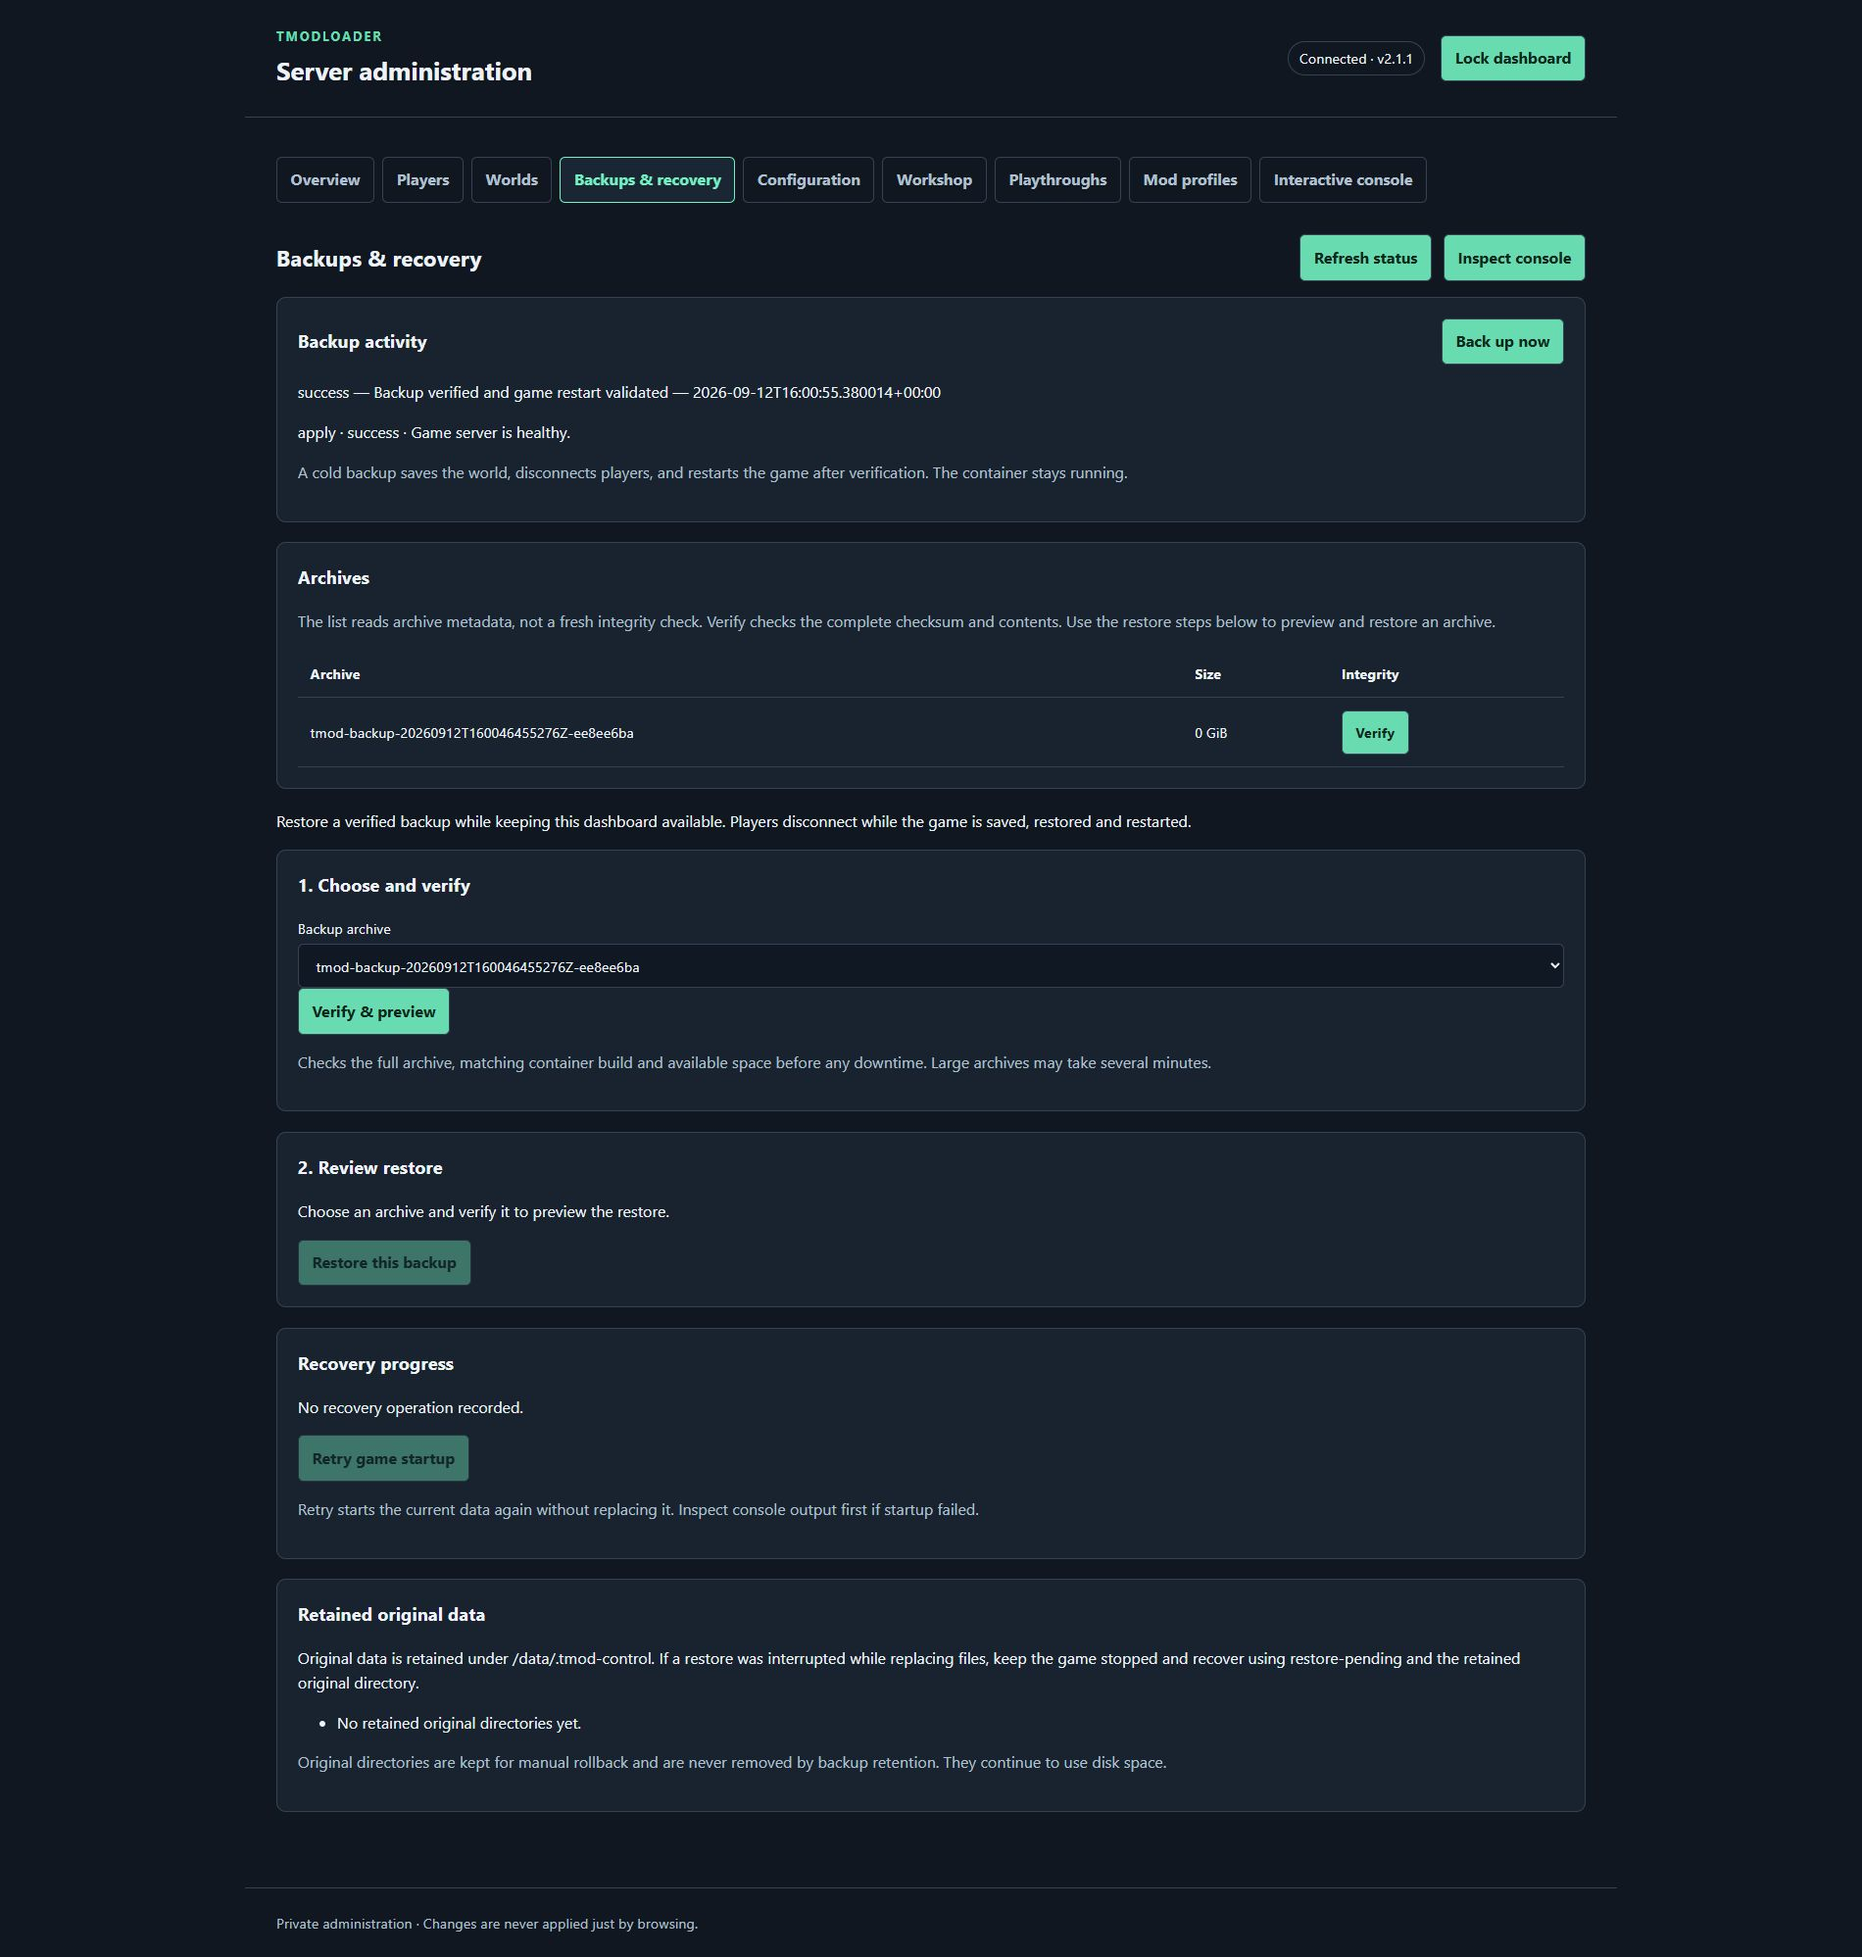
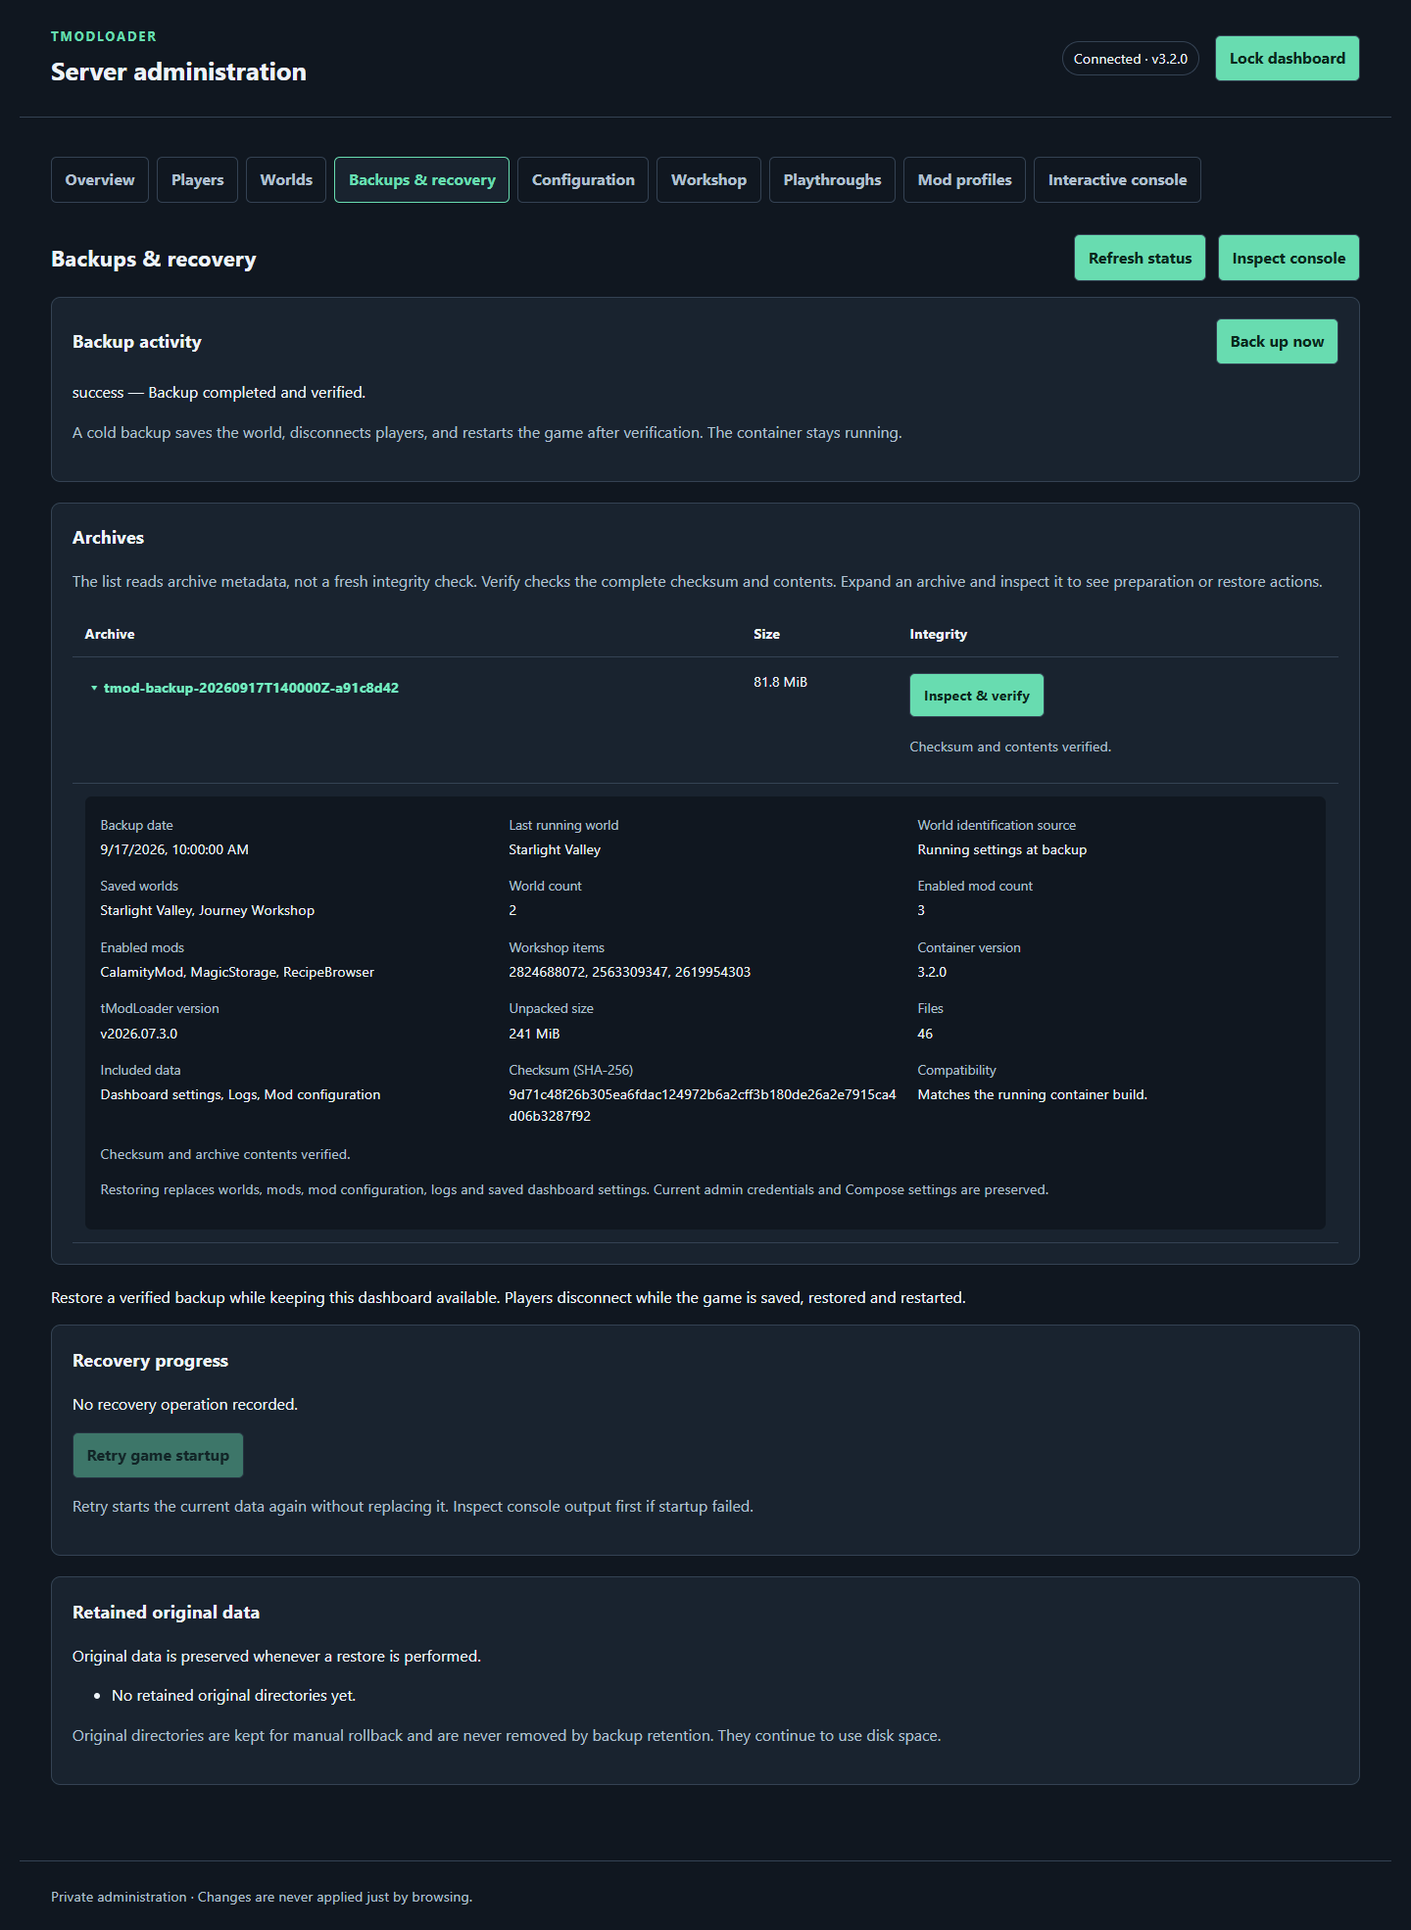
Refresh dashboard gallery and add Steam Workshop cards

diff --git a/README.md b/README.md
@@ -61,12 +61,22 @@ See [Drydock's getting started guide](https://getdrydock.com/docs/v1.7/getting-s
 
 ## Dashboard gallery
 
-Captured from a running preview server. Select a screenshot to view it full size.
+Captured from the current 3.2.0 dashboard interface with demonstration server data.
+Workshop cards show real public Steam titles and artwork in an illustrative results
+list. Select a screenshot to view it full size.
 
-| Overview | Worlds | Backups & recovery |
-| :---: | :---: | :---: |
-| [![Server overview](docs/images/dashboard-overview.png)](docs/images/dashboard-overview.png) | [![World management](docs/images/dashboard-worlds.png)](docs/images/dashboard-worlds.png) | [![Backups and recovery](docs/images/dashboard-backups.png)](docs/images/dashboard-backups.png) |
-| Health, players, and server status | Saved worlds and world creation | Archives, verification, and restoration |
+| Overview | Worlds |
+| :---: | :---: |
+| [![Server overview with health, connected players, and backup status](docs/images/dashboard-overview.png)](docs/images/dashboard-overview.png) | [![World management with expanded metadata, session uptime, and Journey controls](docs/images/dashboard-worlds.png)](docs/images/dashboard-worlds.png) |
+| Health, players, settings, and backup status | World details, uptime, creation, and Journey permissions |
+
+| Backups & recovery | Steam Workshop search |
+| :---: | :---: |
+| [![Expanded backup details showing archived worlds, mods, and runtime compatibility](docs/images/dashboard-backups.png)](docs/images/dashboard-backups.png) | [![Steam Workshop search with Calamity Mod, Magic Storage, and Recipe Browser mod cards](docs/images/dashboard-workshop.png)](docs/images/dashboard-workshop.png) |
+| Archive contents, verification, and compatibility | Search controls, Steam preview artwork, and mod selection |
+
+Live Workshop browsing requires a Steam API key. Importing a Workshop URL or ID
+works without one.
 
 ## Getting started
 

diff --git a/docs/images/README.md b/docs/images/README.md
@@ -1,0 +1,26 @@
+# Dashboard screenshots
+
+The four `dashboard-*.png` README images were captured on 2026-09-17 from the
+unmodified `web/index.html`, `web/app.js`, and `web/style.css` in container source
+version 3.2.0 (documentation checkout `913cf7c`). They are browser screenshots,
+not drawn mockups. Each capture uses a 1440-pixel-wide viewport and the full page.
+
+Server status, players, world files, backups, selections, and search responses
+use demonstration data supplied to the current interface. These captures do not
+claim a live game-server test or authenticated Steam search. No credentials or
+private server data are present.
+
+Workshop titles, descriptions, update dates, subscriber counts, and artwork came
+from Steam's public item-details endpoint for Calamity Mod (`2824688072`), Magic
+Storage (`2563309347`), and Recipe Browser (`2619954303`). The browser loaded the
+original Steam preview images. The three-item results list is illustrative;
+descriptions are shortened for the gallery. Artwork belongs to its respective
+creators.
+
+- `dashboard-overview.png`: health, players, settings, and backup status.
+- `dashboard-worlds.png`: expanded world metadata and uptime, with Journey controls.
+- `dashboard-backups.png`: expanded archive contents and compatibility.
+- `dashboard-workshop.png`: Steam search controls and graphical Workshop mod cards.
+
+When refreshing these captures, use the current UI, keep the gallery's data-source
+caption accurate, and check that all artwork has loaded before capturing.
